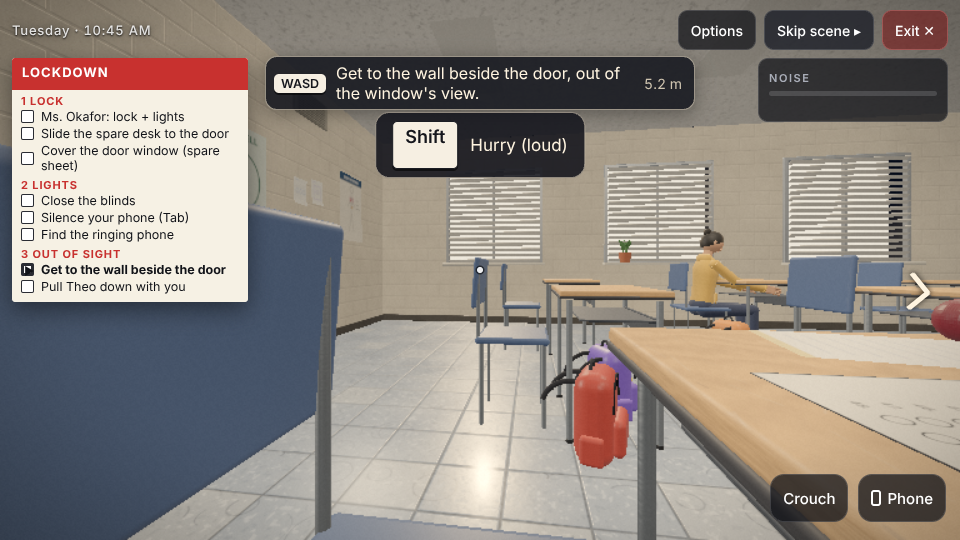
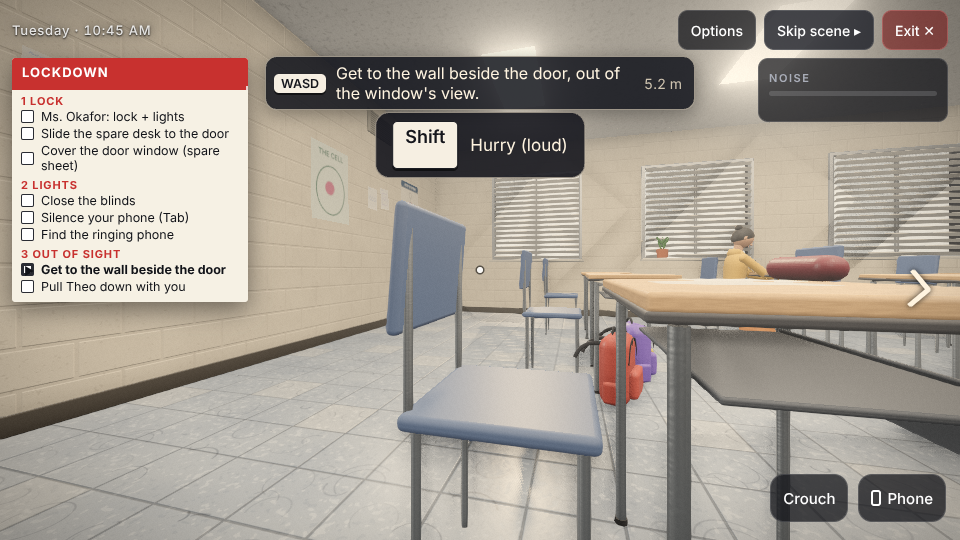
Fix test timing for High captures, Theo's huddle spot clear of the spare desk
shot() waits for the switch back to the play preset; boot waits for the texture
library; Theo sits left of Noah's wall spot so personal space never blocks the
barricade.

Claude-Session: https://claude.ai/code/session_018KZLyLNugzHBmBVNxuDHxq

diff --git a/tests/e2e/helpers.ts b/tests/e2e/helpers.ts
@@ -53,7 +53,7 @@ export async function boot(page: Page, speed = 14, opts: { lowq?: boolean } = {}
   });
   page.on('pageerror', (e) => run.errors.push(`pageerror: ${e.message}`));
   await page.goto(`/?speed=${speed}&nolock${opts.lowq ? '&lowq' : ''}`);
-  await expect(page.getByTestId('content-notice')).toBeVisible();
+  await expect(page.getByTestId('content-notice')).toBeVisible({ timeout: 120_000 });
   await expect(page.getByTestId('exit')).toBeVisible();
   return run;
 }
@@ -76,7 +76,11 @@ export async function shot(page: Page, name: string, dir = SHOTS, hq = true): Pr
   await page.waitForTimeout(250);
   const file = path.join(dir, `${name}.png`);
   await page.screenshot({ path: file, timeout: 180_000 });
-  if (hq) await page.evaluate(() => window.__lockdown.hq(false));
+  if (hq) {
+    await page.evaluate(() => window.__lockdown.hq(false));
+    // let the switch back to the play preset finish (shader recompiles) before the test goes on
+    await page.evaluate(() => new Promise((r) => { let n = 0; const f = () => (++n >= 3 ? r(0) : requestAnimationFrame(f)); requestAnimationFrame(f); }));
+  }
   await page.evaluate((s) => window.__lockdown.setSpeed(s), speed);
   return file;
 }

diff --git a/src/game/world.ts b/src/game/world.ts
@@ -89,7 +89,7 @@ export const HUDDLE: Record<string, [number, number, number]> = {
   jo: [-0.3, -4.0, 0],
   malik: [3.55, -4.0, -0.05],
   sam: [4.1, -3.95, -0.1],
-  theo: [3.75, -3.4, -0.3],
+  theo: [-0.75, -3.5, 0.3],
 };
 export const NOAH_WALL_SPOT = { x: 0.4, z: -3.1 };
 
